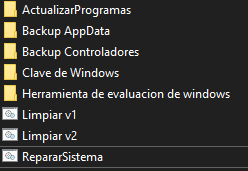
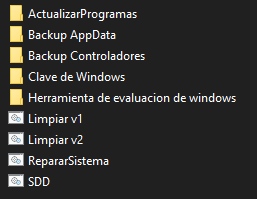
v1.2  SDD para optimizar
Mejoras incluidas para este archivos SDD

Changed region(s): [[0.0, 0.0, 1.0, 0.9942]]

diff --git a/README.md b/README.md
@@ -15,6 +15,9 @@ Incluye utilidades para respaldo, limpieza, reparación y evaluación del sistem
 - 📊 **Herramienta de evaluación de Windows** → Ejecuta `winsat` para medir rendimiento.
 - 🧹 **Limpiar v1 y v2** → Scripts de limpieza de archivos temporales y caché.
 - 🛠 **RepararSistema** → Corrección de errores comunes en Windows.
+- ⚡ **SSD** → Optimización de discos (TRIM, desactivar Indexado, Superfetch, Prefetch, ClearPageFileAtShutdown, activar caché de escritura).
+- 🧠 **Memoria Virtual** → Activar, desactivar o mover el archivo de paginación según la RAM instalada.
+
 
 ---
 
